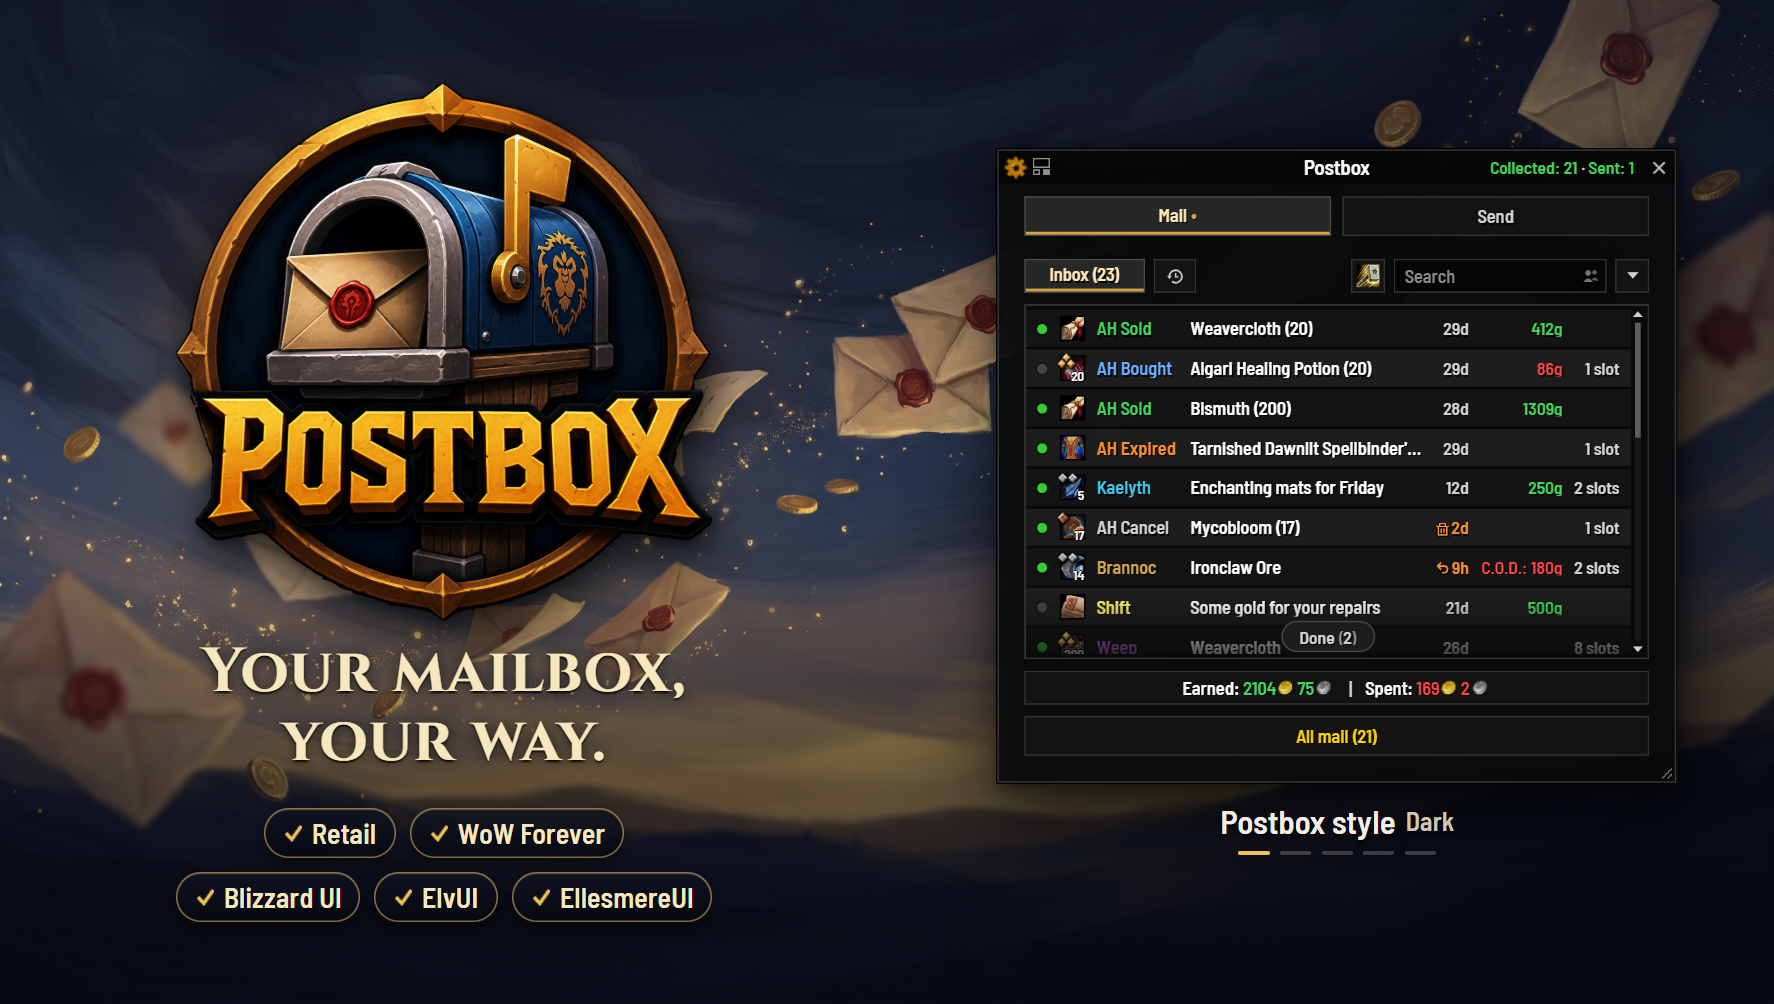
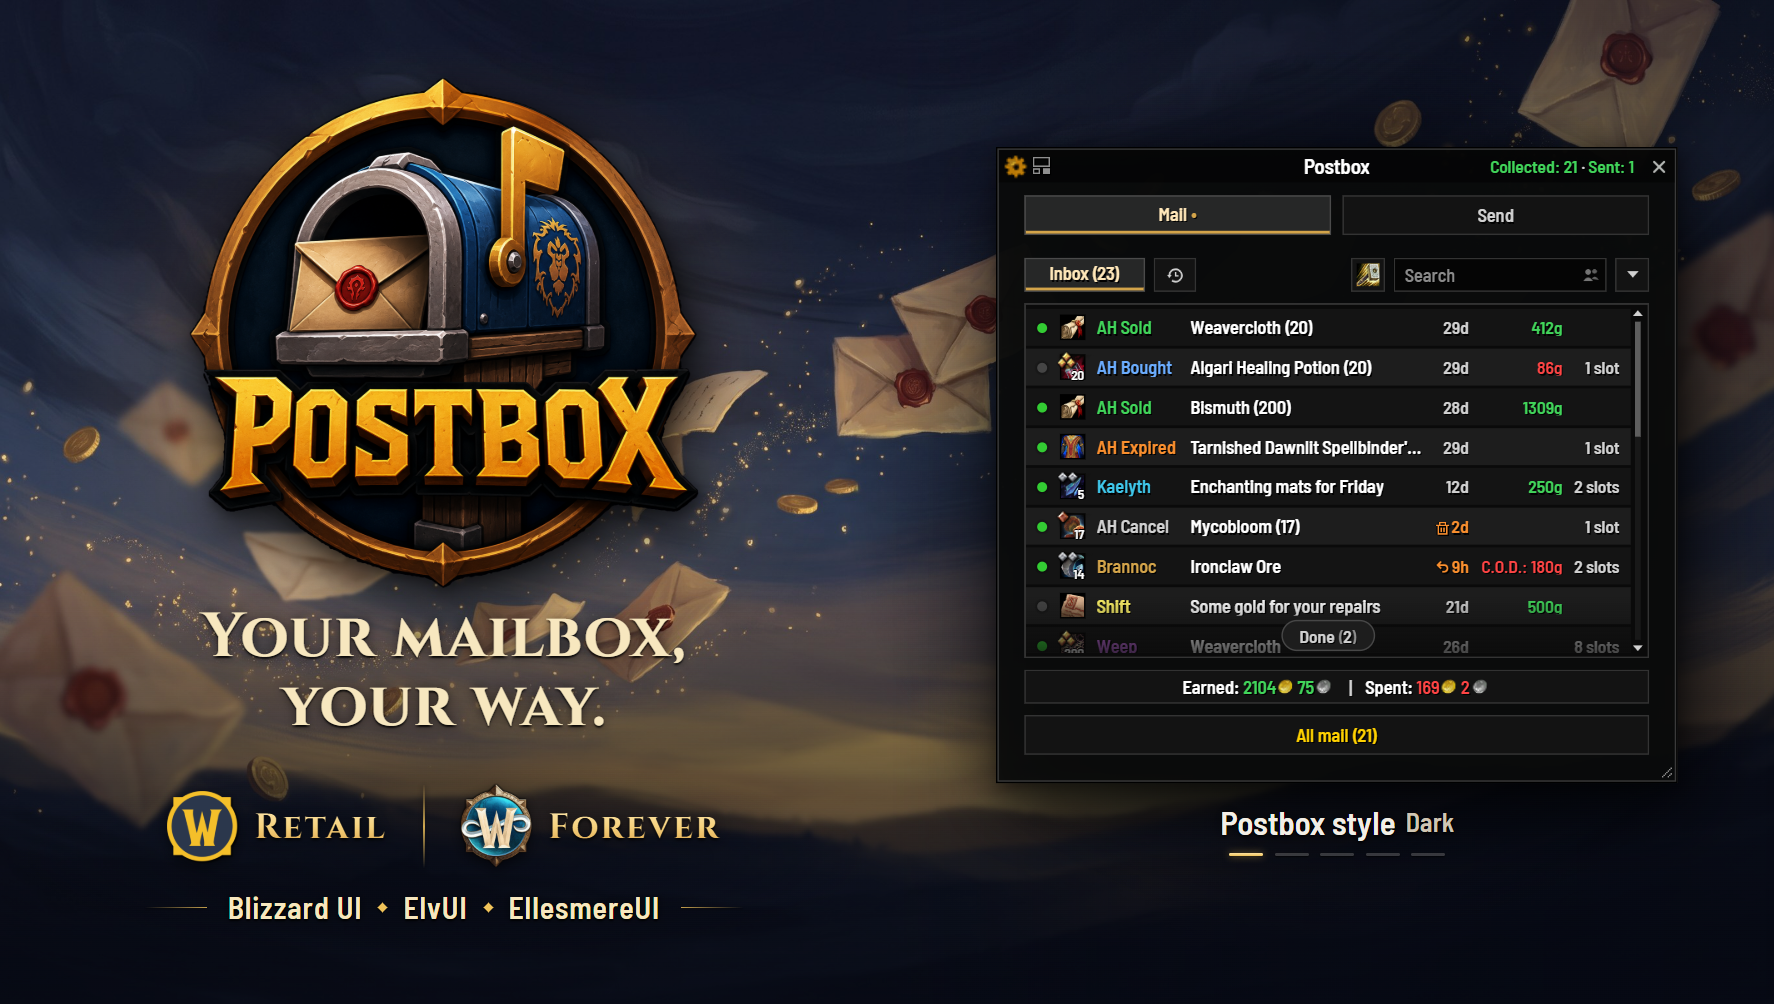
The hero says where Postbox runs as a game's own art would: Retail and Forever, each beside its game's emblem in the tagline's gilt lettering with a gold hairline between, and under them one line of the UIs it fits, Blizzard UI, ElvUI and EllesmereUI, between two short rules; the window and the lock

diff --git a/docs/gallery/README.md b/docs/gallery/README.md
@@ -24,9 +24,10 @@ with a short caption.
 
 The cover moves: the window wipes through Postbox's five looks (the Postbox
 style in Dark, Blizzard, ElvUI, EllesmereUI, the Postbox style in Light), with
-the look's name under it and, under the tagline, where Postbox runs (Retail,
-WoW Forever) and the UIs it fits (Blizzard UI, ElvUI, EllesmereUI).
-`01-hero.png` is its first frame, for anywhere a still is wanted instead.
+the look's name under it. Under the tagline, where Postbox runs: Retail and
+Forever, each beside its game's own emblem, and under them the UIs it fits
+(Blizzard UI, ElvUI, EllesmereUI), named in text. `01-hero.png` is its first
+frame, for anywhere a still is wanted instead.
 
 The description's own pictures are in `../screenshots`. Nothing under `docs/`
 ships in the addon: `.pkgmeta` leaves the folder out of the zip.

diff --git a/README.md b/README.md
@@ -1,5 +1,5 @@
 <p align="center">
-  <img src="docs/screenshots/hero.gif" alt="Postbox: the mailbox Azeroth deserves. Its window in each of its looks: the Postbox style in Dark, Blizzard, ElvUI, EllesmereUI and the Postbox style in Light. For retail and WoW Forever, with the Blizzard UI, ElvUI or EllesmereUI" />
+  <img src="docs/screenshots/hero.gif" alt="Postbox: the mailbox Azeroth deserves. Its window in each of its looks: the Postbox style in Dark, Blizzard, ElvUI, EllesmereUI and the Postbox style in Light. For Retail and Forever, each beside its game's own emblem, with the Blizzard UI, ElvUI or EllesmereUI" />
 </p>
 
 <p align="center">
